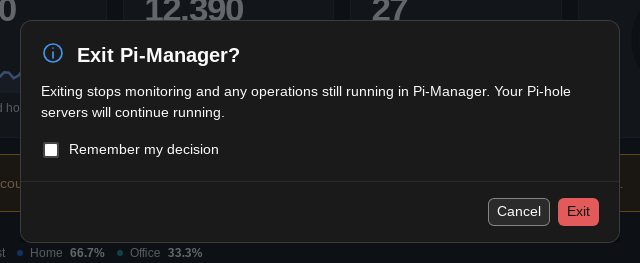
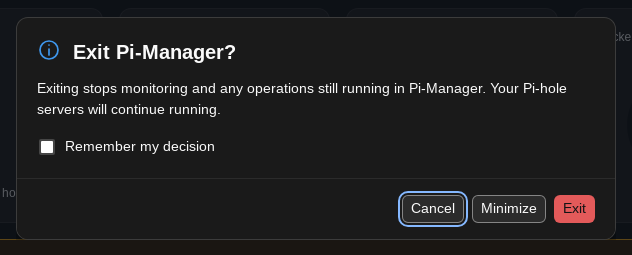
feat: add exit dialog minimize (0.2.9)

diff --git a/assets/app.js b/assets/app.js
@@ -1266,9 +1266,9 @@ async function renderSettings(container, page) {
     $("[data-interface-density]",appearance).value=document.documentElement.dataset.skDensity;
     $("[data-interface-density]",appearance).onchange=event=>setWorkspaceDensity(event.target.value);
     const exitSettings=document.createElement("div");exitSettings.className="sk-card card";container.append(exitSettings);
-    exitSettings.innerHTML=`<h2>${textHTML("exitBehavior")}</h2><p class="sub">${textHTML("exitBehaviorHelp")}</p>${field("exitBehavior",`<select class="sk-select" data-exit-behavior><option value="ask">${textHTML("exitAsk")}</option><option value="exit">${textHTML("exitAlways")}</option><option value="cancel">${textHTML("exitNever")}</option></select>`)}`;
+    exitSettings.innerHTML=`<h2>${textHTML("exitBehavior")}</h2><p class="sub">${textHTML("exitBehaviorHelp")}</p>${field("exitBehavior",`<select class="sk-select" data-exit-behavior><option value="ask">${textHTML("exitAsk")}</option><option value="exit">${textHTML("exitAlways")}</option><option value="minimize">${textHTML("exitMinimize")}</option><option value="cancel">${textHTML("exitNever")}</option></select>`)}`;
     const exitBehavior=$("[data-exit-behavior]",exitSettings);
-    exitBehavior.value=["exit","cancel"].includes(desktopConfig.preferences.ph_combo_exit_decision) ? desktopConfig.preferences.ph_combo_exit_decision : "ask";
+    exitBehavior.value=["exit","cancel","minimize"].includes(desktopConfig.preferences.ph_combo_exit_decision) ? desktopConfig.preferences.ph_combo_exit_decision : "ask";
     exitBehavior.onchange=async()=>{
         const choice=exitBehavior.value;exitBehavior.disabled=true;
         try {await nativePreference("ph_combo_exit_decision",choice);desktopConfig.preferences.ph_combo_exit_decision=choice;toast(t("saved"),"ok");}
@@ -1383,7 +1383,7 @@ window.showExitDialog=()=>{
     if(dialog){$("[data-exit-decision=cancel]",dialog).focus();return;}
     dialog=document.createElement("dialog");dialog.id="exitDialog";dialog.className="sk-dialog sk-dialog--confirm";
     dialog.setAttribute("aria-labelledby","exitDialogTitle");dialog.setAttribute("aria-describedby","exitDialogHelp");
-    dialog.innerHTML=`<div class="sk-dialog__panel"><div class="sk-dialog__header"><span class="dialog-status-icon">${statusIcon("")}</span><h2 class="sk-dialog__title" id="exitDialogTitle">${textHTML("exitTitle")}</h2></div><div class="sk-dialog__body"><p id="exitDialogHelp">${textHTML("exitWarning")}</p><label class="exit-remember"><input type="checkbox" data-exit-remember> <span>${textHTML("rememberDecision")}</span></label><p class="backup-result backup-error" role="alert" data-exit-error hidden></p></div><div class="sk-dialog__footer"><button type="button" class="sk-button sk-button--secondary" data-exit-decision="cancel" autofocus>${textHTML("cancel")}</button><button type="button" class="sk-button sk-button--danger" data-exit-decision="exit">${textHTML("exit")}</button></div></div>`;
+    dialog.innerHTML=`<div class="sk-dialog__panel"><div class="sk-dialog__header"><span class="dialog-status-icon">${statusIcon("")}</span><h2 class="sk-dialog__title" id="exitDialogTitle">${textHTML("exitTitle")}</h2></div><div class="sk-dialog__body"><p id="exitDialogHelp">${textHTML("exitWarning")}</p><label class="exit-remember"><input type="checkbox" data-exit-remember> <span>${textHTML("rememberDecision")}</span></label><p class="backup-result backup-error" role="alert" data-exit-error hidden></p></div><div class="sk-dialog__footer"><button type="button" class="sk-button sk-button--secondary" data-exit-decision="cancel" autofocus>${textHTML("cancel")}</button><button type="button" class="sk-button sk-button--secondary" data-exit-decision="minimize">${textHTML("minimize")}</button><button type="button" class="sk-button sk-button--danger" data-exit-decision="exit">${textHTML("exit")}</button></div></div>`;
     let controller;
     const decide=async decision=>{
         if(dialog.dataset.busy)return;

diff --git a/assets/messages.js b/assets/messages.js
@@ -27,7 +27,9 @@ const MESSAGES = {
     exitNever: ["Cancel exit and keep the app open", "Annuller afslutning og hold appen åben", "Ακύρωση εξόδου και διατήρηση της εφαρμογής ανοιχτής", "Avbryt avslut och håll appen öppen"],
     exitAlways: ["Exit without asking", "Afslut uden at spørge", "Έξοδος χωρίς ερώτηση", "Avsluta utan att fråga"],
     exitAsk: ["Ask before exiting", "Spørg før afslutning", "Ερώτηση πριν την έξοδο", "Fråga innan avslut"],
-    exitBehaviorHelp: ["Choose what happens when you close the window or choose Quit. Change this setting to reset a remembered Exit or Cancel decision.", "Vælg, hvad der sker, når du lukker vinduet eller vælger Quit. Skift indstillingen for at nulstille et gemt valg af Afslut eller Annuller.", "Επιλέξτε τι συμβαίνει όταν κλείνετε το παράθυρο ή επιλέγετε Quit. Αλλάξτε τη ρύθμιση για να επαναφέρετε μια αποθηκευμένη επιλογή εξόδου ή ακύρωσης.", "Välj vad som händer när du stänger fönstret eller väljer Quit. Ändra inställningen för att återställa ett sparat val av Avsluta eller Avbryt."],
+    exitMinimize: ["Minimize without asking", "Minimer uden at spørge", "Ελαχιστοποίηση χωρίς ερώτηση", "Minimera utan att fråga"],
+    minimize: ["Minimize", "Minimer", "Ελαχιστοποίηση", "Minimera"],
+    exitBehaviorHelp: ["Choose what happens when you close the window or choose Quit. Change this setting to reset a remembered decision.", "Vælg, hvad der sker, når du lukker vinduet eller vælger Quit. Skift indstillingen for at nulstille et gemt valg.", "Επιλέξτε τι συμβαίνει όταν κλείνετε το παράθυρο ή επιλέγετε Quit. Αλλάξτε τη ρύθμιση για να επαναφέρετε μια αποθηκευμένη επιλογή.", "Välj vad som händer när du stänger fönstret eller väljer Quit. Ändra inställningen för att återställa ett sparat val."],
     exitBehavior: ["Exit behavior", "Afslutningsadfærd", "Συμπεριφορά εξόδου", "Beteende vid avslut"],
     rememberDecision: ["Remember my decision", "Husk mit valg", "Απομνημόνευση της επιλογής μου", "Kom ihåg mitt val"],
     exitWarning: ["Exiting stops monitoring and any operations still running in Pi-Manager. Your Pi-hole servers will continue running.", "Afslutning stopper overvågning og igangværende handlinger i Pi-Manager. Dine Pi-hole-servere fortsætter med at køre.", "Η έξοδος σταματά την παρακολούθηση και τις εργασίες του Pi-Manager που εκτελούνται ακόμη. Οι διακομιστές Pi-hole θα συνεχίσουν να λειτουργούν.", "När du avslutar stoppas övervakning och pågående åtgärder i Pi-Manager. Dina Pi-hole-servrar fortsätter att köras."],

diff --git a/exit_test.go b/exit_test.go
@@ -6,15 +6,15 @@ import (
 )
 
 func TestExitDecisions(t *testing.T) {
-	for _, decision := range []string{"exit", "cancel"} {
+	for _, decision := range []string{"exit", "cancel", "minimize"} {
 		for _, remember := range []bool{false, true} {
 			t.Run(decision+map[bool]string{false: "/once", true: "/remember"}[remember], func(t *testing.T) {
 				store, err := openConfig(filepath.Join(t.TempDir(), "config.json"))
 				if err != nil {
 					t.Fatal(err)
 				}
-				prompts, shown, exits := 0, 0, 0
-				e := &exitController{config: store, dispatch: func(fn func()) { fn() }, show: func() { shown++ }, prompt: func() { prompts++ }, terminate: func() { exits++ }}
+				prompts, shown, exits, minimizes := 0, 0, 0, 0
+				e := &exitController{config: store, dispatch: func(fn func()) { fn() }, show: func() { shown++ }, prompt: func() { prompts++ }, terminate: func() { exits++ }, minimize: func() { minimizes++ }}
 				// Close requests during startup wait until the UI can show a dialog.
 				e.Request()
 				e.Request()
@@ -30,7 +30,10 @@ func TestExitDecisions(t *testing.T) {
 					t.Fatal(err)
 				}
 				if (exits == 1) != (decision == "exit") {
-					t.Fatal("Exit/Cancel did not control shutdown")
+					t.Fatal("exit decision did not control shutdown")
+				}
+				if (minimizes == 1) != (decision == "minimize") {
+					t.Fatal("Minimize did not control window minimization")
 				}
 				disk, err := openConfig(store.path)
 				if err != nil {
@@ -40,7 +43,7 @@ func TestExitDecisions(t *testing.T) {
 					t.Fatal("remembered decision was not persisted correctly")
 				}
 				// A new process follows the saved decision and Settings can reset it.
-				e = &exitController{config: disk, ready: true, dispatch: func(fn func()) { fn() }, show: func() {}, prompt: func() { prompts++ }, terminate: func() { exits++ }}
+				e = &exitController{config: disk, ready: true, dispatch: func(fn func()) { fn() }, show: func() {}, prompt: func() { prompts++ }, terminate: func() { exits++ }, minimize: func() { minimizes++ }}
 				e.Request()
 				if remember && prompts != 1 || !remember && prompts != 2 {
 					t.Fatal("saved decision was not applied after restart")
@@ -55,10 +58,20 @@ func TestExitDecisions(t *testing.T) {
 				if exits != wantExits {
 					t.Fatal("saved decision did not control shutdown after restart")
 				}
+				wantMinimizes := 0
+				if decision == "minimize" {
+					wantMinimizes = 1
+					if remember {
+						wantMinimizes++
+					}
+				}
+				if minimizes != wantMinimizes {
+					t.Fatal("saved Minimize decision was not applied after restart")
+				}
 				if err := disk.SetPreference(exitPreference, "ask"); err != nil {
 					t.Fatal(err)
 				}
-				e = &exitController{config: disk, ready: true, dispatch: func(fn func()) { fn() }, show: func() {}, prompt: func() { prompts++ }, terminate: func() { t.Fatal("reset preference exited without asking") }}
+				e = &exitController{config: disk, ready: true, dispatch: func(fn func()) { fn() }, show: func() {}, prompt: func() { prompts++ }, terminate: func() { t.Fatal("reset preference exited without asking") }, minimize: func() { t.Fatal("reset preference minimized without asking") }}
 				e.Request()
 			})
 		}
@@ -70,7 +83,7 @@ func TestExitDecisionSaveFailureKeepsAppOpen(t *testing.T) {
 	if err != nil {
 		t.Fatal(err)
 	}
-	e := &exitController{config: store, ready: true, dispatch: func(fn func()) { fn() }, show: func() {}, prompt: func() {}, terminate: func() { t.Fatal("exited after failing to save the decision") }}
+	e := &exitController{config: store, ready: true, dispatch: func(fn func()) { fn() }, show: func() {}, prompt: func() {}, terminate: func() { t.Fatal("exited after failing to save the decision") }, minimize: func() { t.Fatal("minimized after failing to save the decision") }}
 	if err := e.Decide("exit", true); err == nil {
 		t.Fatal("exit accepted without a pending confirmation")
 	}
@@ -79,8 +92,10 @@ func TestExitDecisionSaveFailureKeepsAppOpen(t *testing.T) {
 		t.Fatal("invalid exit decision accepted")
 	}
 	store.path = filepath.Join(store.path, "missing", "config.json")
-	if err := e.Decide("exit", true); err == nil || !e.pending {
-		t.Fatal("failed save closed the confirmation")
+	for _, decision := range []string{"exit", "minimize"} {
+		if err := e.Decide(decision, true); err == nil || !e.pending {
+			t.Fatal("failed save closed the confirmation")
+		}
 	}
 	if err := e.Decide("cancel", false); err != nil {
 		t.Fatal("could not cancel after a save failure", err)

diff --git a/desktop_smoke_test.go b/desktop_smoke_test.go
@@ -34,6 +34,17 @@ func TestNativeDesktop(t *testing.T) {
 	defer w.Destroy()
 	var exitAttempts atomic.Int32
 	w.(*managedDesktop).exit.terminate = func() { exitAttempts.Add(1) }
+	var minimizeAttempts atomic.Int32
+	nativeMinimize := w.(*managedDesktop).exit.minimize
+	w.(*managedDesktop).exit.minimize = func() {
+		minimizeAttempts.Add(1)
+		nativeMinimize()
+		// Bring the window back so the remaining UI checks can run unattended.
+		time.AfterFunc(50*time.Millisecond, func() { w.Dispatch(w.(*managedDesktop).exit.show) })
+	}
+	if err := w.Bind("smokeMinimizeAttempts", func() int32 { return minimizeAttempts.Load() }); err != nil {
+		t.Fatal(err)
+	}
 	if err := w.Bind("smokeRequestExit", w.(*managedDesktop).exit.Request); err != nil {
 		t.Fatal(err)
 	}
@@ -151,6 +162,19 @@ func TestNativeDesktop(t *testing.T) {
                 assert(!document.getElementById("exitDialog") && await smokeExitAttempts()===0,"Remembered Cancel showed a prompt or exited");
                 const exitBehavior=document.querySelector("[data-exit-behavior]");exitBehavior.value="ask";exitBehavior.dispatchEvent(new Event("change"));
                 await wait(()=>!exitBehavior.disabled);
+                await smokeRequestExit();await wait(()=>document.getElementById("exitDialog")?.open);
+                const minimizeButton=document.querySelector('[data-exit-decision="minimize"]');
+                assert(minimizeButton.textContent===t("minimize"),"Exit dialog lacks the translated Minimize option");
+                minimizeButton.click();await wait(()=>!document.getElementById("exitDialog"));
+                assert(await smokeMinimizeAttempts()===1 && await smokeExitAttempts()===0 && desktopConfig.preferences.ph_combo_exit_decision==="ask","Minimize exited or persisted an unchecked decision");
+                await smokeRequestExit();await wait(()=>document.getElementById("exitDialog")?.open);
+                document.querySelector("[data-exit-remember]").checked=true;
+                document.querySelector('[data-exit-decision="minimize"]').click();await wait(()=>!document.getElementById("exitDialog"));
+                assert(await smokeMinimizeAttempts()===2 && document.querySelector("[data-exit-behavior]").value==="minimize","Remembered Minimize did not update Settings");
+                await smokeRequestExit();await new Promise(r=>setTimeout(r,80));
+                assert(await smokeMinimizeAttempts()===3 && await smokeExitAttempts()===0 && !document.getElementById("exitDialog"),"Remembered Minimize showed a prompt or exited");
+                exitBehavior.value="ask";exitBehavior.dispatchEvent(new Event("change"));await wait(()=>!exitBehavior.disabled);
+
                 for (const values of Object.values(MESSAGES)) assert(values.length===4 && values.every(Boolean), "Incomplete translation");
                 savePreference("dashboard_panel","details");
                 await smokeResize(1440,1000);await wait(()=>Math.abs(innerWidth-1440)<5);
@@ -184,6 +208,12 @@ func TestNativeDesktop(t *testing.T) {
                                 const fields=[...document.querySelectorAll(".query-filters input,.query-filters select")].map(field=>field.getBoundingClientRect());
                                 assert(fields.every(field=>Math.abs(field.bottom-fields[0].bottom)<2),"Query filter fields are misaligned: "+language);
                             }
+                        }
+                        if(tab==="settings") {
+                            assert(document.querySelector('[data-exit-behavior] option[value="minimize"]').textContent===t("exitMinimize"),"Settings lacks the translated Minimize behavior");
+                            await smokeRequestExit();await wait(()=>document.getElementById("exitDialog")?.open);
+                            assert(document.querySelector('[data-exit-decision="minimize"]').textContent===t("minimize"),"Minimize is not translated: "+language);
+                            document.querySelector('[data-exit-decision="cancel"]').click();await wait(()=>!document.getElementById("exitDialog"));
                         }
                         if(tab === "settings")assert(document.querySelector("[data-restore-server]").textContent===t("restoreServer") && document.querySelector("[data-restore-config]").textContent===t("restoreConfig"),"Missing translated restore controls");
                         if(tab === "queries") {

diff --git a/exit.go b/exit.go
@@ -7,16 +7,16 @@ import (
 
 const exitPreference = "ph_combo_exit_decision"
 
-type exitWindow struct{ restore, close func() }
+type exitWindow struct{ restore, minimize, close func() }
 
 // All native close paths share one pending confirmation. Terminate remains an
 // unconditional shutdown for confirmed exits, startup errors and test watchdogs.
 type exitController struct {
-	config                  *ConfigStore
-	dispatch                func(func())
-	show, prompt, terminate func()
-	mu                      sync.Mutex
-	ready, pending, stopped bool
+	config                            *ConfigStore
+	dispatch                          func(func())
+	show, prompt, terminate, minimize func()
+	mu                                sync.Mutex
+	ready, pending, stopped           bool
 }
 
 func (e *exitController) Request() {
@@ -32,6 +32,8 @@ func (e *exitController) Request() {
 			e.terminate()
 		case "cancel":
 			return
+		case "minimize":
+			e.minimize()
 		default:
 			e.pending = true
 			e.show()
@@ -59,8 +61,8 @@ func (e *exitController) Ready() {
 func (e *exitController) Decide(decision string, remember bool) error {
 	e.mu.Lock()
 	defer e.mu.Unlock()
-	if decision != "exit" && decision != "cancel" {
-		return errors.New("choose Exit or Cancel")
+	if decision != "exit" && decision != "cancel" && decision != "minimize" {
+		return errors.New("choose Exit, Minimize or Cancel")
 	}
 	if !e.pending || e.stopped {
 		return errors.New("no exit confirmation is pending")
@@ -74,6 +76,8 @@ func (e *exitController) Decide(decision string, remember bool) error {
 	if decision == "exit" {
 		e.stopped = true
 		e.dispatch(e.terminate)
+	} else if decision == "minimize" {
+		e.dispatch(e.minimize)
 	}
 	return nil
 }

diff --git a/exit_linux.go b/exit_linux.go
@@ -19,17 +19,19 @@ func bindExitWindow(w webview.WebView, request func()) (*exitWindow, error) {
 	}
 	var signal func(uintptr, string, uintptr, uintptr, uintptr, uint32) uint64
 	var disconnect func(uintptr, uint64)
-	var present, deiconify func(unsafe.Pointer)
+	var present, deiconify, iconify func(unsafe.Pointer)
 	purego.RegisterLibFunc(&signal, object, "g_signal_connect_data")
 	purego.RegisterLibFunc(&disconnect, object, "g_signal_handler_disconnect")
 	purego.RegisterLibFunc(&present, gtk, "gtk_window_present")
 	purego.RegisterLibFunc(&deiconify, gtk, "gtk_window_deiconify")
+	purego.RegisterLibFunc(&iconify, gtk, "gtk_window_iconify")
 	handler := signal(uintptr(w.Window()), "delete-event", purego.NewCallback(func(unsafe.Pointer, uintptr, uintptr) int32 {
 		request()
 		return 1 // Keep GTK from destroying the window before confirmation.
 	}), 0, 0, 0)
 	return &exitWindow{
-		restore: func() { deiconify(w.Window()); present(w.Window()) },
+		restore:  func() { deiconify(w.Window()); present(w.Window()) },
+		minimize: func() { iconify(w.Window()) },
 		close: func() {
 			disconnect(uintptr(w.Window()), handler)
 			purego.Dlclose(gtk)

diff --git a/exit_windows.go b/exit_windows.go
@@ -11,6 +11,7 @@ func bindExitWindow(w webview.WebView, request func()) (*exitWindow, error) {
 	callProc := user.NewProc("CallWindowProcW")
 	show := user.NewProc("ShowWindow")
 	foreground := user.NewProc("SetForegroundWindow")
+	send := user.NewProc("SendMessageW")
 	hwnd := uintptr(w.Window())
 	var previous uintptr
 	callback := windows.NewCallback(func(handle uintptr, message uint32, wp, lp uintptr) uintptr {
@@ -26,7 +27,8 @@ func bindExitWindow(w webview.WebView, request func()) (*exitWindow, error) {
 		return nil, err
 	}
 	return &exitWindow{
-		restore: func() { show.Call(hwnd, 9); foreground.Call(hwnd) },
-		close:   func() { setProc.Call(hwnd, ^uintptr(3), previous) },
+		restore:  func() { show.Call(hwnd, 9); foreground.Call(hwnd) },
+		minimize: func() { send.Call(hwnd, 0x0112, 0xf020, 0) }, // WM_SYSCOMMAND / SC_MINIMIZE follows tray handling.
+		close:    func() { setProc.Call(hwnd, ^uintptr(3), previous) },
 	}, nil
 }

diff --git a/exit_darwin.go b/exit_darwin.go
@@ -63,6 +63,7 @@ func bindExitWindow(w webview.WebView, request func()) (*exitWindow, error) {
 			app.Send(objc.RegisterName("activateIgnoringOtherApps:"), true)
 			window.Send(objc.RegisterName("makeKeyAndOrderFront:"), objc.ID(0))
 		},
-		close: cleanup,
+		minimize: func() { window.Send(objc.RegisterName("miniaturize:"), objc.ID(0)) },
+		close:    cleanup,
 	}, nil
 }

diff --git a/desktop.go b/desktop.go
@@ -110,6 +110,7 @@ func newDesktop(a *App) (webview.WebView, error) {
 		return nil, fmt.Errorf("cannot install exit confirmation: %w", err)
 	}
 	exit.show = exitHook.restore
+	exit.minimize = exitHook.minimize
 	if tray.restore != nil {
 		exit.show = tray.restore
 	}

diff --git a/main.go b/main.go
@@ -8,7 +8,7 @@ import (
 	"path/filepath"
 )
 
-var version = "0.2.8"
+var version = "0.2.9"
 
 //go:embed assets/THIRD_PARTY.txt
 var thirdPartyNotices string

diff --git a/docs/using-pi-manager.md b/docs/using-pi-manager.md
@@ -42,17 +42,20 @@ English and dense mode; window decorations and tray availability vary by OS.
 
 When a usable tray is available, minimizing hides the running window from the
 Windows/Linux taskbar or macOS Dock. Use the tray menu to restore the dashboard
-or quit. Use the window's normal minimize control to minimize to tray.
+or quit. Use the window's normal minimize control, or choose **Minimize** in
+the exit confirmation, to minimize to tray. Without a usable tray, Minimize
+uses normal window minimization.
 
-Closing the window or choosing Quit opens a confirmation with **Exit** and
-**Cancel**. **Remember my decision** saves the selected behavior in `config.json`.
+Closing the window or choosing Quit opens a confirmation with **Cancel**,
+**Minimize** and **Exit**. **Remember my decision** saves the selected behavior in `config.json`.
 Remembering Exit skips future confirmations; remembering Cancel keeps the app
-open on subsequent close/quit requests. Change **Settings → Exit behavior** to
-**Ask before exiting** to restore the confirmation, or choose a different
+open on subsequent close/quit requests. Remembering Minimize minimizes instead
+of exiting on subsequent close/quit requests, while monitoring continues.
+Change **Settings → Exit behavior** to **Ask before exiting** to restore the confirmation, or choose a different
 behavior. Exiting stops Pi-Manager's monitoring and active operations; Pi-hole
 servers keep running.
 
-![Exit confirmation with Cancel, Exit and Remember my decision](images/exit-confirmation.png)
+![Exit confirmation with Cancel, Minimize, Exit and Remember my decision](images/exit-confirmation.png)
 
 The native monitor keeps sampling while the dashboard is hidden, normally every
 five seconds after the previous sample completes. Tray status includes
